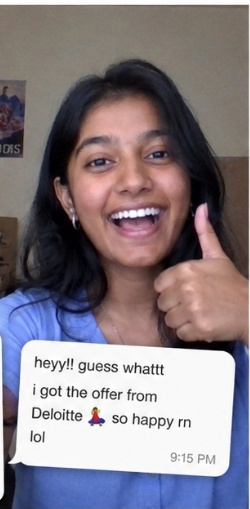
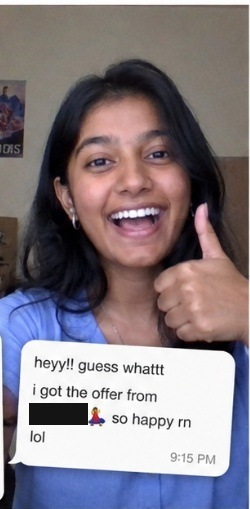
content(site): redact employer names from testimonials, drop the offers strip
Clients who sent these screenshots asked for their employers not to be
named. Black bars over the company name and the sender address on
cards 2, 3, 5 and 7; the other four never carried one.

Two things go beyond what was asked, for the same reason. Card 2 and
card 5 were not in the request but carry the same detail (a company
name plus a real address), and card 5 also named the recruiter
personally, who is a third party and never agreed to appear here at
all. Bars rather than blur: a blur of small text can sometimes be
recovered, and it reads as a compression artifact rather than a
deliberate choice.

Also removed the "This is what it's building toward" section and its
job-offers.webp strip.

Changed region(s): [[0.112, 0.7662, 0.364, 0.8546]]

diff --git a/public/coaching.html b/public/coaching.html
@@ -399,16 +399,6 @@
   </div>
 </section>
 
-<!-- ── Social proof ────────────────────────────────── -->
-<section class="sec">
-  <div class="wrap center reveal">
-    <span class="eyebrow">REAL PEOPLE · REAL OFFERS</span>
-    <h2 class="display">This is what it's building toward.</h2>
-    <p class="lead">Actual offers landed by people who did the work. This is the other side of the vision you came here with.</p>
-    <img src="job-offers.webp" alt="Real job offers landed by people we've worked with in Australia" style="display:block; width:100%; height:auto; max-width:840px; margin:48px auto 0; -webkit-mask-image:radial-gradient(ellipse at center, black 62%, transparent 100%); mask-image:radial-gradient(ellipse at center, black 62%, transparent 100%);" />
-  </div>
-</section>
-
 <!-- ── The math (objection handling) ───────────────── -->
 <section class="sec alt">
   <div class="wrap">
